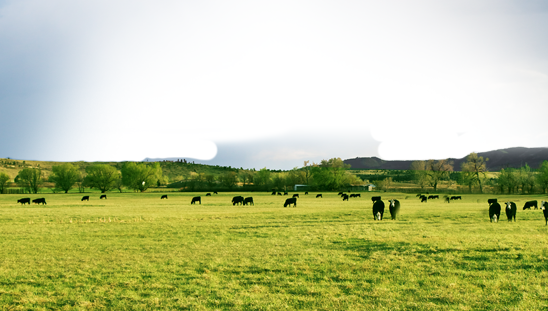
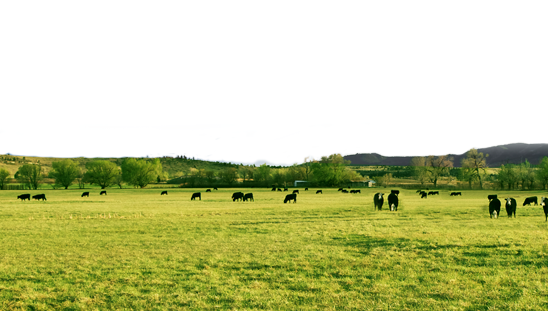
added spanish headlines and subheads

diff --git a/v3/css/index.css b/v3/css/index.css
@@ -39,10 +39,30 @@
   -webkit-animation-delay: 2s;
   -webkit-animation-fill-mode: forwards;
 }
+#headline-spanish {
+  position: absolute;
+  top: 42px;
+  left: 29px;
+  z-index: 100;
+  opacity: 0;
+  -webkit-animation: headline 1s linear;
+  -webkit-animation-delay: 2s;
+  -webkit-animation-fill-mode: forwards;
+}
 #subhead {
   position: absolute;
   top: 79px;
   left: 68px;
+  z-index: 99;
+  opacity: 0;
+  -webkit-animation: headline 1s linear;
+  -webkit-animation-delay: 3.5s;
+  -webkit-animation-fill-mode: forwards;
+}
+#subhead-spanish {
+  position: absolute;
+  top: 77px;
+  left: 42px;
   z-index: 99;
   opacity: 0;
   -webkit-animation: headline 1s linear;
@@ -130,10 +150,10 @@
 
 @-webkit-keyframes sky {
   0% {
-    background-position: 0 -15px;
+    background-position: 0 -10px;
   }
   100% {
-    background-position: -1377px -15px;
+    background-position: -1377px -10px;
   }
 }
 

diff --git a/v1/css/index.css b/v1/css/index.css
@@ -39,10 +39,30 @@
   -webkit-animation-delay: 2s;
   -webkit-animation-fill-mode: forwards;
 }
+#headline-spanish {
+  position: absolute;
+  top: 42px;
+  left: 31px;
+  z-index: 100;
+  opacity: 0;
+  -webkit-animation: headline 1s linear;
+  -webkit-animation-delay: 2s;
+  -webkit-animation-fill-mode: forwards;
+}
 #subhead {
   position: absolute;
   top: 76px;
   left: 58px;
+  z-index: 99;
+  opacity: 0;
+  -webkit-animation: headline 1s linear;
+  -webkit-animation-delay: 3.5s;
+  -webkit-animation-fill-mode: forwards;
+}
+#subhead-spanish {
+  position: absolute;
+  top: 76px;
+  left: 25px;
   z-index: 99;
   opacity: 0;
   -webkit-animation: headline 1s linear;

diff --git a/v2/css/index.css b/v2/css/index.css
@@ -52,10 +52,30 @@
   -webkit-animation-delay: 2s;
   -webkit-animation-fill-mode: forwards;
 }
+#headline-spanish {
+  position: absolute;
+  top: 41px;
+  left: 30px;
+  z-index: 100;
+  opacity: 0;
+  -webkit-animation: headline 1s linear;
+  -webkit-animation-delay: 2s;
+  -webkit-animation-fill-mode: forwards;
+}
 #subhead {
   position: absolute;
   top: 86px;
   left: 68px;
+  z-index: 99;
+  opacity: 0;
+  -webkit-animation: headline 1s linear;
+  -webkit-animation-delay: 3.5s;
+  -webkit-animation-fill-mode: forwards;
+}
+#subhead-spanish {
+  position: absolute;
+  top: 82px;
+  left: 50px;
   z-index: 99;
   opacity: 0;
   -webkit-animation: headline 1s linear;

diff --git a/v1/index_spanish.html b/v1/index_spanish.html
@@ -7,8 +7,8 @@
   </head>
   <body>
     <div id="paper-container">
-      <img id="headline" src="img/headline.png" alt="" />
-      <img id="subhead" src="img/subhead.png" alt="" />
+      <img id="headline-spanish" src="img/headline_spanish.png" alt="" />
+      <img id="subhead-spanish" src="img/subhead_spanish.png" alt="" />
       <div id="sky">
       </div>
       <div id="land">

diff --git a/v2/index_spanish.html b/v2/index_spanish.html
@@ -7,8 +7,8 @@
   </head>
   <body>
     <div id="paper-container">
-      <img id="headline" src="img/headline.png" alt="" />
-      <img id="subhead" src="img/subhead.png" alt="" />
+      <img id="headline-spanish" src="img/headline_spanish.png" alt="" />
+      <img id="subhead-spanish" src="img/subhead_spanish.png" alt="" />
       <div id="sky">
       </div>
       <div id="land">

diff --git a/v3/index_spanish.html b/v3/index_spanish.html
@@ -7,8 +7,8 @@
   </head>
   <body>
     <div id="paper-container">
-      <img id="headline" src="img/headline.png" alt="" />
-      <img id="subhead" src="img/subhead.png" alt="" />
+      <img id="headline-spanish" src="img/headline_spanish.png" alt="" />
+      <img id="subhead-spanish" src="img/subhead_spanish.png" alt="" />
       <div id="sky">
       </div>
       <div id="land">
